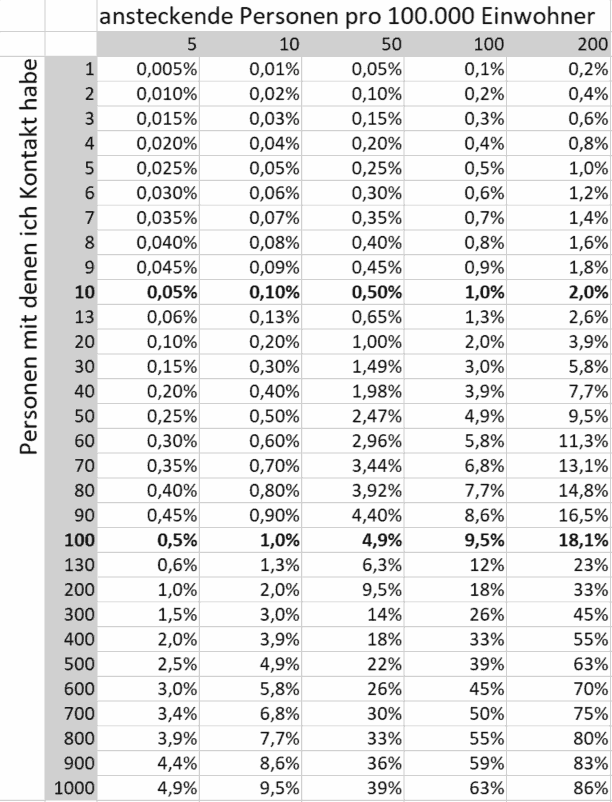
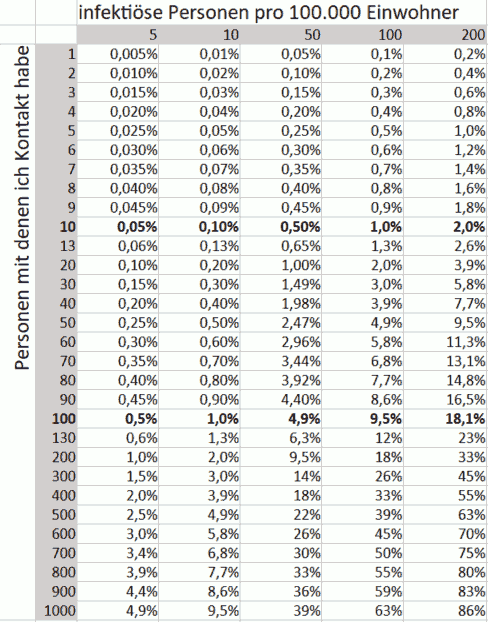
fix

Changed region(s): [[0.0922, 0.0, 1.0, 1.0], [0.0307, 0.0611, 0.0615, 0.6109], [0.0615, 0.0305, 0.0922, 0.0611]]

diff --git a/index.html b/index.html
@@ -969,7 +969,7 @@
 	<h3><a id="DE_wahrscheinlichkeit-infizierten-treffen"></a>Wie hoch ist die Wahrscheinlichkeit dass beim Treffen mit Personen ein Infizierter dabei ist? </h3>
 
 	<p>Hier eine kleine Exkursion in die Stochastik/Wahrscheinlichkeitsrechnung mit dem Ziel das Risiko einer Infektion beim Treffen von Personen abzuschätzen. <br /> Annahme zur Abschätzung: die Zahl der Neu-Infektionen pro Woche entspricht der Zahl der aktuell infektiösen Personen. Wichtig ist die Dunkelziffer der unbemerkt infizierten Personen nicht außer Acht zu lassen, ein Faktor 4 auf die offiziellen Fallzahlen erscheint mir realistisch. Sind also in einer Region 25 Neu-Infektionen pro 100000 Einwohner gemeldet, so nehme ich an, dass 100 Personen pro 100000 Einwohner derzeit ansteckend sind. Aus der Tabelle unten kann man nun für verschiedene Gruppengrößen ablesen wie wahrscheinlich es ist, dass eine ansteckende Person dabei ist. Die Excel-Berechnung dazu, die auch einen "Taschenrechner" für die freie Eingabe von Werten enthält, ist unter der Tabelle verlinkt. </p>
-	<img src="data/wahrscheinlichkeit-infizierten-treffen.png" width="612" height="802" alt="DE_wahrscheinlichkeit-infizierten-treffen" /><br />
+	<img src="data/wahrscheinlichkeit-infizierten-treffen.png" width="488" height="622" alt="DE_wahrscheinlichkeit-infizierten-treffen" /><br />
 	<small>generated via Excel <a href="data/wahrscheinlichkeit-infizierten-treffen.xlsx" target="_blank">wahrscheinlichkeit-infizierten-treffen.xlsx</a>
 		<br />
 	</small>
@@ -987,16 +987,22 @@
 			<td><select id="rc_sel_bundesland" style="width:200px" onchange="rc_sel_bundesland_selected()"> </select></td>
 		</tr>
 		<tr>
-			<td><input id="rc_input_cases_last_week_100k" size="5" type="number" min="1" max="1000" step="0.1" value="10" onchange="rc_calc()"></td>
+			<td><input id="rc_input_cases_last_week_100k" type="number" value="10" min="1" max="1000" step="0.1" size="5" style="text-align: right;" onchange="rc_calc()"></td>
 			<td>Neu-Infektionen in Region (letzte 7 Tage pro 100.000 Einwohner), Zahlen können auch der obigen <a href="#DeDistrictTable">Landkreistabelle</a> entnommen werden </td>
 		</tr>
-		<!-- <tr>
-		<td>Faktor Dunkelziffer<br /> (Schätzung)</td>
-		<td><input type="number" min="1" max="50" step="0.5" id="rc_input_factor_unreported" value="4" onchange="rc_calc()"></td>
-	</tr> -->
+		<tr>
+			<td><input id="rc_input_factor_unreported" type="number" value="4" min="1" max="20" step="0.5" size="5" style="text-align: right;" onchange="rc_calc()"></td>
+			<td>Schätzung Faktor Dunkelziffer</td>
+		</tr>
 		<tr>
 			<td>
-				<input id="rc_input_num_people" size="5" type="number" min="5" max="10000" step="5" value="20" onchange="rc_calc()">
+				<input id="rc_output_infectious_pop" type="number" size="5" readonly disabled value="" style="text-align: right;">
+			</td>
+			<td>Geschätzte Gesamtzahl infektiöser Personen (inklusive Dunkelziffer) in Region (pro 100.000 Einwohner)</td>
+		</tr>
+		<tr>
+			<td>
+				<input id="rc_input_num_people" type="number" value="20" min="5" max="10000" step="1" size="5" style="text-align: right;" onchange="rc_calc()">
 			</td>
 			<td>Anzahl Personen in Veranstaltung</td>
 		</tr>
@@ -1006,18 +1012,19 @@
 		</tr>
 		<tr>
 			<td>
-				<input id="rc_output_rop_someone_at_event_is_infectious" type="text" size="5" readonly disabled value="" style="background-color: white; color: black; background-color: orange;">
+				<input id="rc_output_prop_someone_at_event_is_infectious" type="text" size="5" readonly disabled value="" style="background-color: orange; color: black;  font-weight: bold;text-align: right">
 			</td>
-			<td>Wahrscheinlichkeit dass eine aktuell infektiöse Person unter den Teilnehmern ist</td>
+			<td>Wahrscheinlichkeit dass eine aktuell infektiöse Person unter den Teilnehmern ist (Berechnungslogik siehe <a href="data/wahrscheinlichkeit-infizierten-treffen.xlsx" target="_blank">wahrscheinlichkeit-infizierten-treffen.xlsx</a>)</td>
 		</tr>
 	</table>
 	<script>
 		function rc_calc() {
 			const cases_last_week_100k = document.getElementById("rc_input_cases_last_week_100k").value;
-			// const factor_unreported = document.getElementById("rc_input_factor_unreported").value;
-			const factor_unreported = 4;
+			const factor_unreported = document.getElementById("rc_input_factor_unreported").value;
+			// const factor_unreported = 4;
 			const people = document.getElementById("rc_input_num_people").value;
 			const cases_last_week_100k_reported_and_unreported = cases_last_week_100k * factor_unreported;
+			document.getElementById("rc_output_infectious_pop").value = cases_last_week_100k_reported_and_unreported;
 			const prop_1_random_person_is_infectious = cases_last_week_100k_reported_and_unreported / 100000;
 			const prop_no_one_at_event_is_infectious = Math.pow((1 - prop_1_random_person_is_infectious), people)
 			const prop_someone_at_event_is_infectious = 1 - prop_no_one_at_event_is_infectious;
@@ -1026,7 +1033,7 @@
 
 			// console.log(string_prop_someone_at_event_is_infectious_in_percent);
 
-			document.getElementById("rc_output_rop_someone_at_event_is_infectious").value = string_prop_someone_at_event_is_infectious_in_percent;
+			document.getElementById("rc_output_prop_someone_at_event_is_infectious").value = string_prop_someone_at_event_is_infectious_in_percent;
 		}
 		rc_calc();
 
